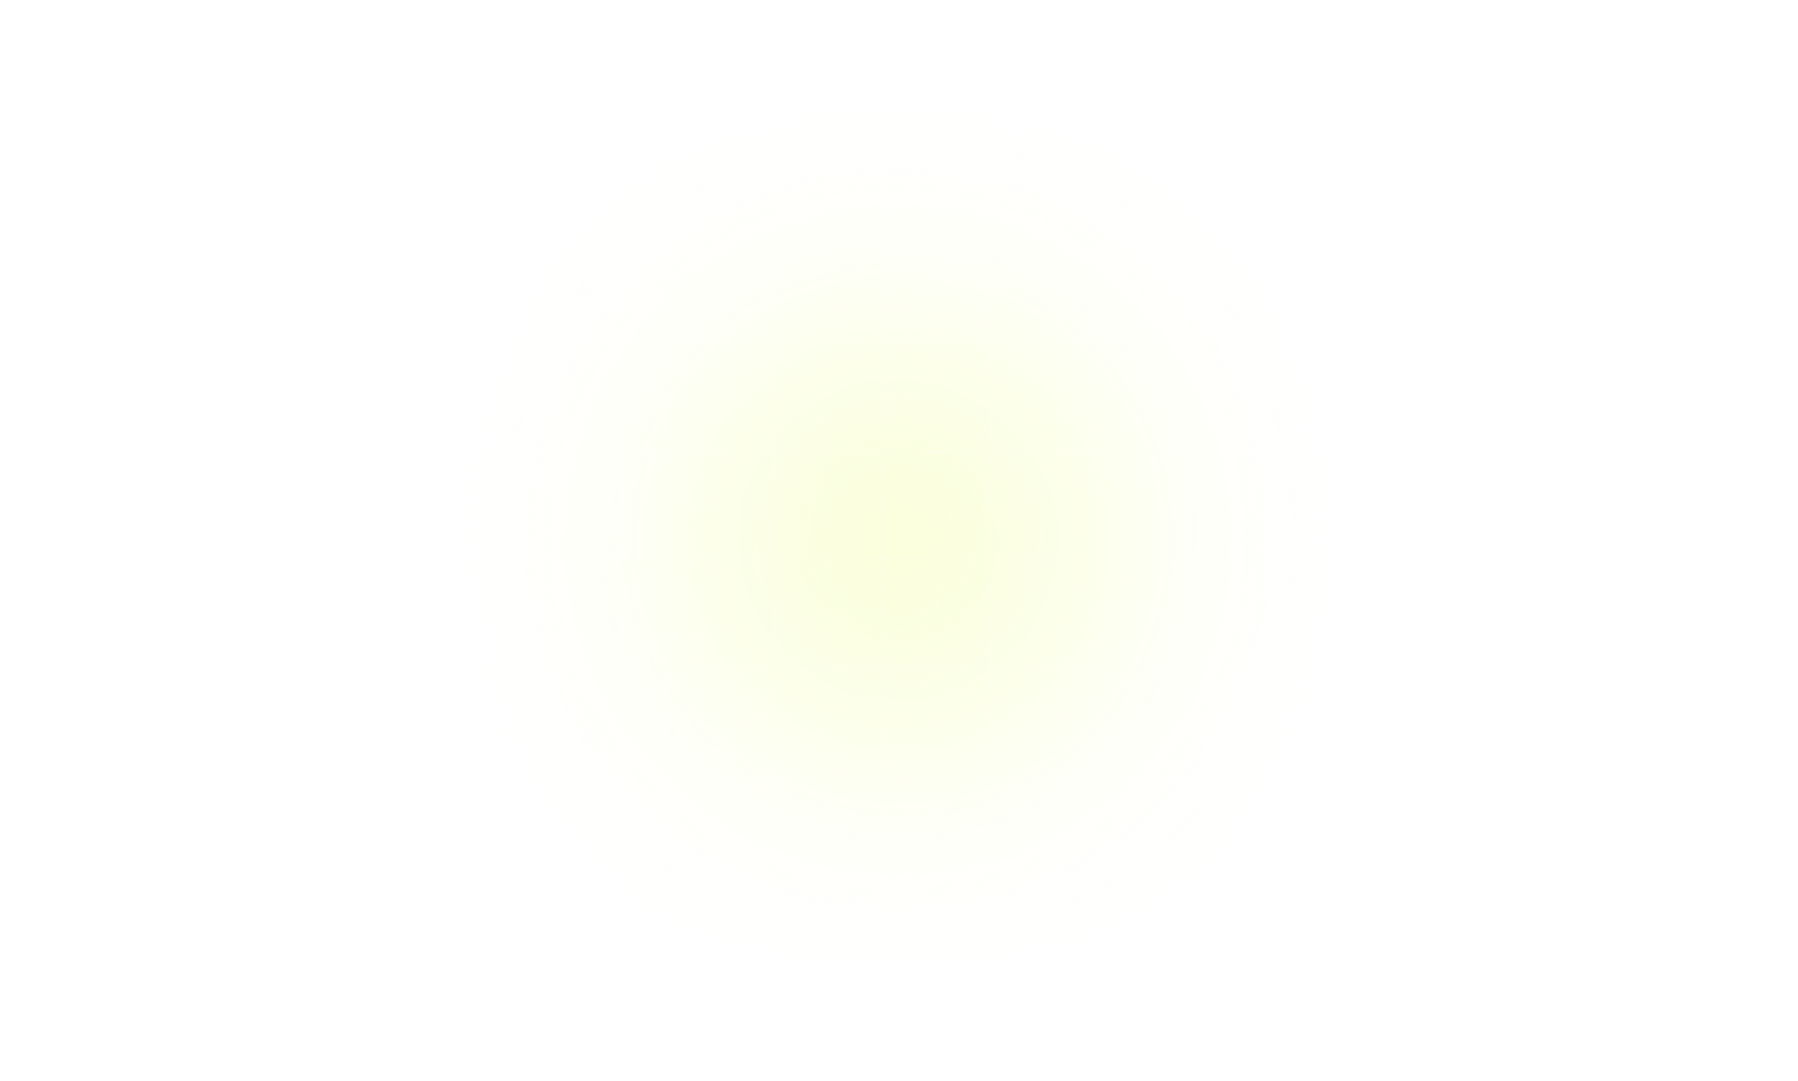
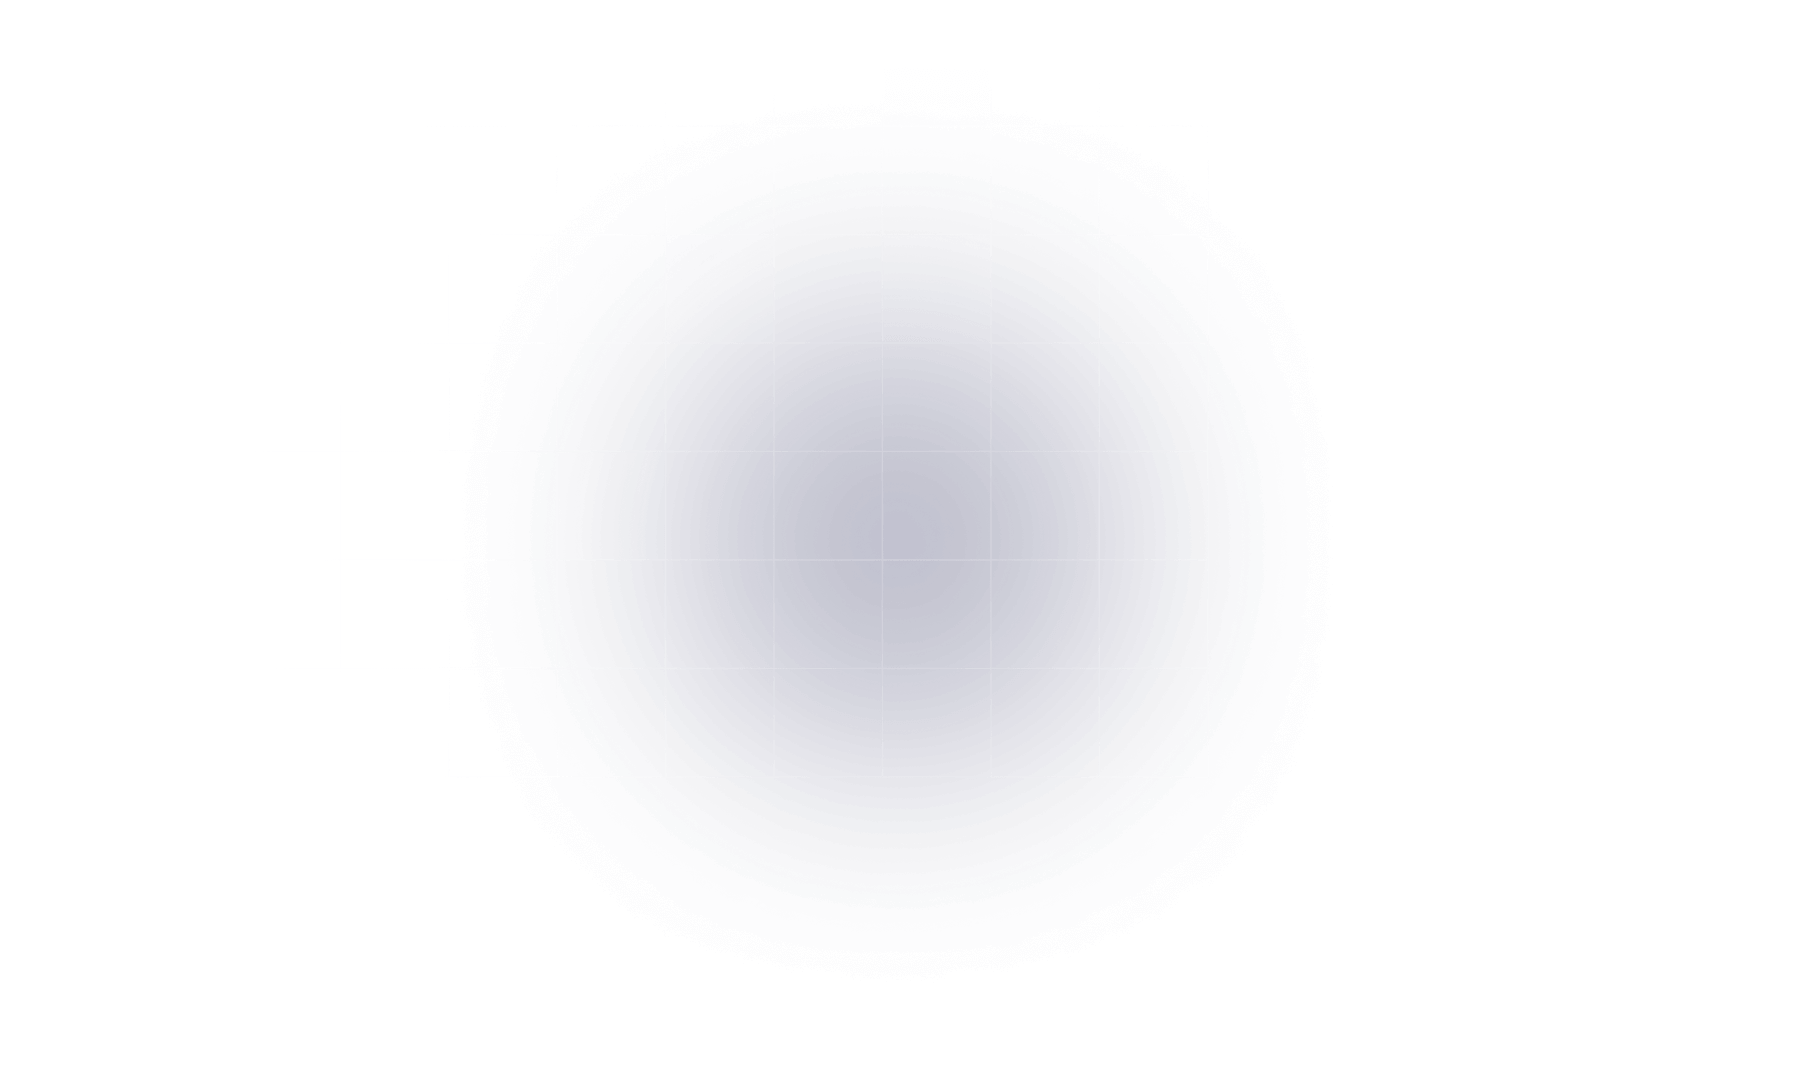
feat: nymber animations

Changed region(s): [[0.3737, 0.2747, 0.6541, 0.7327]]

diff --git a/src/components/navComponent.jsx b/src/components/navComponent.jsx
@@ -1,37 +1,46 @@
 "use client";
 
 import { useState } from "react";
-import { HiMenu, HiX } from "react-icons/hi"; // Substituindo Menu e X
+import { HiMenu, HiX } from "react-icons/hi";
 import Link from "next/link";
 import Image from "next/image";
-
 import logo from "../assets/logo-wagner.svg";
 
 export default function Nav() {
   const [isOpen, setIsOpen] = useState(false);
 
+  const scrollToSection = (e, id) => {
+    e.preventDefault();
+    const target = document.querySelector(id);
+    if (target) {
+      target.scrollIntoView({ behavior: "smooth" });
+    }
+    setIsOpen(false); // Fecha o menu mobile após o clique
+  };
+
   return (
-    <nav className=" text-white p-4 border-b border-slate-500/30">
+    <nav className="text-white p-4 border-b border-slate-500/30">
       <div className="container mx-auto flex justify-between items-center">
         <Link href="/" className="text-2xl font-bold">
-          <Image
-            src={logo}
-            alt="Wagner Silva"
-            title="Wagner Silva"
-            width={200}
-          />
+          <Image src={logo} alt="Wagner Silva" title="Wagner Silva" width={200} />
         </Link>
 
         {/* Links Centralizados */}
         <ul className="hidden md:flex gap-6 text-lg mx-auto">
           <li className="hover:text-amber-300">
-            <Link href="#quemsou">Quem sou</Link>
+            <a href="#quemsou" onClick={(e) => scrollToSection(e, "#quemsou")}>
+              Quem sou
+            </a>
           </li>
           <li className="hover:text-amber-300">
-            <Link href="#meusprojetos">Meus trabalhos</Link>
+            <a href="#meusprojetos" onClick={(e) => scrollToSection(e, "#meusprojetos")}>
+              Meus trabalhos
+            </a>
           </li>
           <li className="hover:text-amber-300">
-            <Link href="#experiencia">Experiência</Link>
+            <a href="#experiencia" onClick={(e) => scrollToSection(e, "#experiencia")}>
+              Experiência
+            </a>
           </li>
         </ul>
 
@@ -39,24 +48,16 @@ export default function Nav() {
         <a
           href="curriculo_wagner.pdf"
           download
-          className="hidden md:flex items-center border border-blue-100/20 bg-blue-200/10 text-white px-4 py-2 rounded-full font-semibold hover:border-amber-400 hover:text-amber-400 transition-all duration-300 ease-in-out "
+          className="hidden md:flex items-center border border-blue-100/20 bg-blue-200/10 text-white px-4 py-2 rounded-full font-semibold hover:border-amber-400 hover:text-amber-400 transition-all duration-300 ease-in-out"
         >
-          <svg
-            className="fill-current w-4 h-4 mr-2"
-            xmlns="http://www.w3.org/2000/svg"
-            viewBox="0 0 20 20"
-          >
+          <svg className="fill-current w-4 h-4 mr-2" xmlns="http://www.w3.org/2000/svg" viewBox="0 0 20 20">
             <path d="M13 8V2H7v6H2l8 8 8-8h-5zM0 18h20v2H0v-2z" />
           </svg>
           Baixar CV
         </a>
 
         {/* Botão Mobile */}
-        <button
-          className="md:hidden"
-          onClick={() => setIsOpen(!isOpen)}
-          aria-label="Toggle menu"
-        >
+        <button className="md:hidden" onClick={() => setIsOpen(!isOpen)} aria-label="Toggle menu">
           {isOpen ? <HiX size={28} /> : <HiMenu size={28} />}
         </button>
       </div>
@@ -65,26 +66,22 @@ export default function Nav() {
       {isOpen && (
         <ul className="md:hidden flex flex-col items-center gap-4 p-4 bg-[#0C0D15]">
           <li className="hover:text-amber-300">
-            <Link href="#quemsou" onClick={() => setIsOpen(false)}>
+            <a href="#quemsou" onClick={(e) => scrollToSection(e, "#quemsou")}>
               Quem sou
-            </Link>
+            </a>
           </li>
           <li className="hover:text-amber-300">
-            <Link href="#meusprojetos" onClick={() => setIsOpen(false)}>
+            <a href="#meusprojetos" onClick={(e) => scrollToSection(e, "#meusprojetos")}>
               Meus trabalhos
-            </Link>
+            </a>
           </li>
           <li className="hover:text-amber-300">
-            <Link href="#experiencia" onClick={() => setIsOpen(false)}>
+            <a href="#experiencia" onClick={(e) => scrollToSection(e, "#experiencia")}>
               Experiência
-            </Link>
+            </a>
           </li>
           <li className="hover:text-amber-300">
-            <a
-              href="curriculo_wagner.pdf"
-              download
-              className="bg-amber-400 text-black px-4 py-2 rounded-lg font-semibold hover:bg-yellow-500"
-            >
+            <a href="curriculo_wagner.pdf" download className="bg-amber-400 text-black px-4 py-2 rounded-lg font-semibold hover:bg-yellow-500">
               Baixar CV
             </a>
           </li>

diff --git a/src/components/sectionNumbers.jsx b/src/components/sectionNumbers.jsx
@@ -1,26 +1,68 @@
+import { useEffect, useState, useRef } from 'react';
 
 export function SectionNumbers() {
+  const [hasStartedAnimation, setHasStartedAnimation] = useState(false);
+  const [countExperience, setCountExperience] = useState(0);
+  const [countEcommerce, setCountEcommerce] = useState(0);
+  const [countProjects, setCountProjects] = useState(0);
+
+  const targetRef = useRef(null);
+
+  const animateNumber = (targetNumber, setter) => {
+    let current = 0;
+    const interval = setInterval(() => {
+      if (current < targetNumber) {
+        current += 1;
+        setter(current);
+      } else {
+        clearInterval(interval);
+      }
+    }, 50); // Ajuste a velocidade da animação aqui
+  };
+
+  useEffect(() => {
+    const observer = new IntersectionObserver((entries) => {
+      if (entries[0].isIntersecting) {
+        setHasStartedAnimation(true);
+        observer.disconnect(); // Desconecta o observer após a animação começar
+      }
+    }, { threshold: 0.5 });
+
+    if (targetRef.current) observer.observe(targetRef.current);
+
+    return () => {
+      if (targetRef.current) observer.disconnect();
+    };
+  }, []);
+
+  useEffect(() => {
+    if (hasStartedAnimation) {
+      animateNumber(14, setCountExperience); // Para o primeiro número
+      animateNumber(20, setCountEcommerce); // Para o segundo número
+      animateNumber(100, setCountProjects); // Para o terceiro número
+    }
+  }, [hasStartedAnimation]);
+
   return (
-    <section className="grid grid-cols-1 md:grid-cols-3 gap-8 text-center mt-32 mb-32" >
-      <div className="flex flex-col items-center border-b border-gray-500/20  w-[80%] mx-auto pb-7 shadow-[0_35px_31px_-40px_rgba(134,138,197,1)] hover:shadow-[0_35px_40px_-44px_rgba(134,138,197,1)]" data-aos="fade-down">
+    <section ref={targetRef} className="grid grid-cols-1 md:grid-cols-3 gap-8 text-center mt-32 mb-32">
+      <div className="flex flex-col items-center border-b border-gray-500/20 w-[80%] mx-auto pb-7 shadow-[0_35px_31px_-40px_rgba(134,138,197,1)] hover:shadow-[0_35px_40px_-44px_rgba(134,138,197,1)]" data-aos="fade-down">
         <p className="text-7xl font-bold bg-gradient-to-b from-yellow-100 to-yellow-500 bg-clip-text not-italic text-transparent">
-          +14
+          +{countExperience}
         </p>
         <p className="text-lg text-gray-400">Anos de Experiência</p>
       </div>
-      <div className="flex flex-col items-center border-b border-gray-500/20  w-[80%] mx-auto pb-7 shadow-[0_35px_31px_-40px_rgba(134,138,197,1)] hover:shadow-[0_35px_40px_-44px_rgba(134,138,197,1)]" data-aos="fade-down">
-        <p className="text-7xl font-bold bg-gradient-to-b from-yellow-100 to-yellow-500 bg-clip-text not-italic text-transparent ">
-          +20
+      <div className="flex flex-col items-center border-b border-gray-500/20 w-[80%] mx-auto pb-7 shadow-[0_35px_31px_-40px_rgba(134,138,197,1)] hover:shadow-[0_35px_40px_-44px_rgba(134,138,197,1)]" data-aos="fade-down">
+        <p className="text-7xl font-bold bg-gradient-to-b from-yellow-100 to-yellow-500 bg-clip-text not-italic text-transparent">
+          +{countEcommerce}
         </p>
         <p className="text-lg text-gray-400">E-commerces</p>
       </div>
-      <div className="flex flex-col items-center border-b border-gray-500/20  w-[80%] mx-auto pb-7 shadow-[0_35px_31px_-40px_rgba(134,138,197,1)] hover:shadow-[0_35px_40px_-44px_rgba(134,138,197,1)]" data-aos="fade-down">
+      <div className="flex flex-col items-center border-b border-gray-500/20 w-[80%] mx-auto pb-7 shadow-[0_35px_31px_-40px_rgba(134,138,197,1)] hover:shadow-[0_35px_40px_-44px_rgba(134,138,197,1)]" data-aos="fade-down">
         <p className="text-7xl font-bold bg-gradient-to-b from-yellow-100 to-yellow-500 bg-clip-text not-italic text-transparent">
-          +100
+          +{countProjects}
         </p>
         <p className="text-lg text-gray-400">Projetos entregues</p>
       </div>
-
     </section>
   );
 }

diff --git a/src/components/sectionAboutMe.jsx b/src/components/sectionAboutMe.jsx
@@ -1,6 +1,7 @@
 import Image from "next/image";
 import imageAbout from "../assets/Image.png";
 import imageAvatar from "../assets/avatar-mini.jpg";
+import imageRanger from "../assets/ranger.png";
 import { RiInstagramLine } from "react-icons/ri";
 import { FaSalesforce } from "react-icons/fa";
 
@@ -8,7 +9,7 @@ export function SectionAboutMe() {
   return (
     <section data-aos="fade-up"
       id="quemsou"
-      className="mt-32 mb-32 rounded-[0] md:rounded-[20px] bg-gradient-to-b from-[#1e202f] to-[#12131c] p-6 border border-gray-500/20 "
+      className="bg-homepage-about mt-32 mb-32 rounded-[0] md:rounded-[20px] bg-gradient-to-b from-[#1e202f] to-[#12131c] p-6 border border-gray-500/20 "
     >
       <div className="flex flex-col md:flex-row w-full">
         <div className="w-full md:w-1/2 h-auto">
@@ -58,9 +59,13 @@ export function SectionAboutMe() {
             </svg>
             <span className="sr-only">Notifications</span>
             Baixar CV
-            <div className="absolute inline-flex items-center justify-center w-6 h-6 text-xs font-bold text-white bg-red-500 border-2 border-white rounded-full -top-2 -end-2 dark:border-gray-900">
+            {/* <div className="absolute  inline-flex items-center justify-center w-6 h-6 text-xs font-bold text-white bg-red-500 border-2 border-white rounded-full -top-2 -end-2 dark:border-gray-900">
               1
-            </div>
+            </div> */}
+            <span className="absolute flex items-center justify-center w-6 h-6 -top-2 -right-2">
+              <span className="animate-ping absolute top-0 right-0 inline-flex items-center justify-center w-6 h-6 text-xs font-bold text-white bg-red-500 rounded-full border-gray-900"></span>
+              <span className="relative flex items-center justify-center w-5 h-5 text-xs font-bold text-white bg-red-500 rounded-full border-gray-900">1</span>
+            </span>
           </a>
 
           <div className="mt-24 ">
@@ -74,24 +79,39 @@ export function SectionAboutMe() {
                 <p className="font-bold">Wagner Silva</p>
                 <p className="text-gray-400">Software Engineer</p>
               </span>
+              <a href="https://www.salesforce.com/trailblazer/wdasilva13" target="_blank">
+                <Image
+                  className="ml-4"
+                  src={imageRanger}
+                  alt="Rounded avatar"
+                  width={60}
+                />
+              </a>
+
+              <div>
+
+              </div>
             </div>
 
             <div className="flex">
               <a
-                href=""
-                className="flex mt-4 mr-4 text-gray-300 hover:text-amber-200"
+                href="https://www.instagram.com/wagner.paulo89/" target="_blank"
+                className="flex mt-4 mr-4 text-gray-300 hover:text-amber-300"
               >
                 <RiInstagramLine className="w-6 h-6 mr-2" />
                 <p>wagner.paulo89</p>
               </a>
               <a
                 href="https://www.salesforce.com/trailblazer/wdasilva13"
-                className="flex mt-4 text-gray-300 hover:text-amber-200"
+                className="flex mt-4 text-gray-300 hover:text-amber-300"
               >
                 <FaSalesforce className="w-6 h-6 mr-2 " />
                 <p>wdasilva13</p>
               </a>
             </div>
+
+
+
           </div>
 
           <p className="font-bold mt-4">Especialidades:</p>

diff --git a/src/components/cardCarousel.jsx b/src/components/cardCarousel.jsx
@@ -2,8 +2,8 @@ import { IconSchool } from "@tabler/icons-react";
 
 const CardCarousel = ({ ano, title, descricao, status }) => {
     return (
-        <div className="relative max-w-sm p-6 bg-white border border-gray-200 rounded-lg shadow-sm dark:bg-gray-900/20 dark:border-gray-700 
-  transition-all duration-300 ease-in-out hover:border-amber-300 hover:shadow-lg">
+        <div className="relative max-w-sm p-6 border rounded-lg shadow-sm bg-gray-900/20 border-gray-700
+  transition-all duration-300 ease-in-out hover:border-gray-500 hover:shadow-lg">
             <div className="flex items-center justify-between w-full text-white border-b border-slate-500/30 pb-4">
                 <IconSchool
                     size={44}

diff --git a/src/components/btnScrollToTop.jsx b/src/components/btnScrollToTop.jsx
@@ -20,7 +20,7 @@ export default function ScrollToTop() {
 
     return (
         <div
-            className={`fixed bottom-25 right-7 flex items-center justify-center size-12 rounded-full p-2 ring-1 bg-white/5 ring-white/20 transition-opacity duration-300 ${showButton ? "opacity-100" : "opacity-0"
+            className={`cursor-pointer fixed bottom-25 right-7 flex items-center justify-center size-12 rounded-full p-2 ring-1 bg-white/5 ring-white/20 transition-opacity duration-300 ${showButton ? "opacity-100" : "opacity-0"
                 }`}
             onClick={scrollToTop}
         >

diff --git a/src/app/page.jsx b/src/app/page.jsx
@@ -10,13 +10,13 @@ import SectionProjects from "../components/sectionProjects";
 import { SectionFooter } from "../components/sectionFooter";
 import { useEffect } from 'react';
 import AOS from 'aos';
-import 'aos/dist/aos.css'; // Importando o estilo do AOS
+import 'aos/dist/aos.css';
 
 export default function Home() {
   useEffect(() => {
     AOS.init({
       duration: 1000,
-      once: true, // A animação será executada apenas uma vez
+      once: true,
     });
   }, []);
 

diff --git a/src/app/layout.jsx b/src/app/layout.jsx
@@ -28,7 +28,7 @@ export const metadata = {
 
 export default function RootLayout({ children }) {
   return (
-    <html lang="en">
+    <html lang="en" className="scroll-smooth">
       <head>
         <link rel="icon" href="/favicon.svg" />
       </head>

diff --git a/src/app/globals.css b/src/app/globals.css
@@ -36,6 +36,11 @@ body {
   background-repeat: no-repeat;
 }
 
+.bg-homepage-about {
+  background-image: url(../assets/grid.png);
+  background-repeat: no-repeat;
+}
+
 .gradient_text {
   background-clip: text;
   -webkit-background-clip: text;
